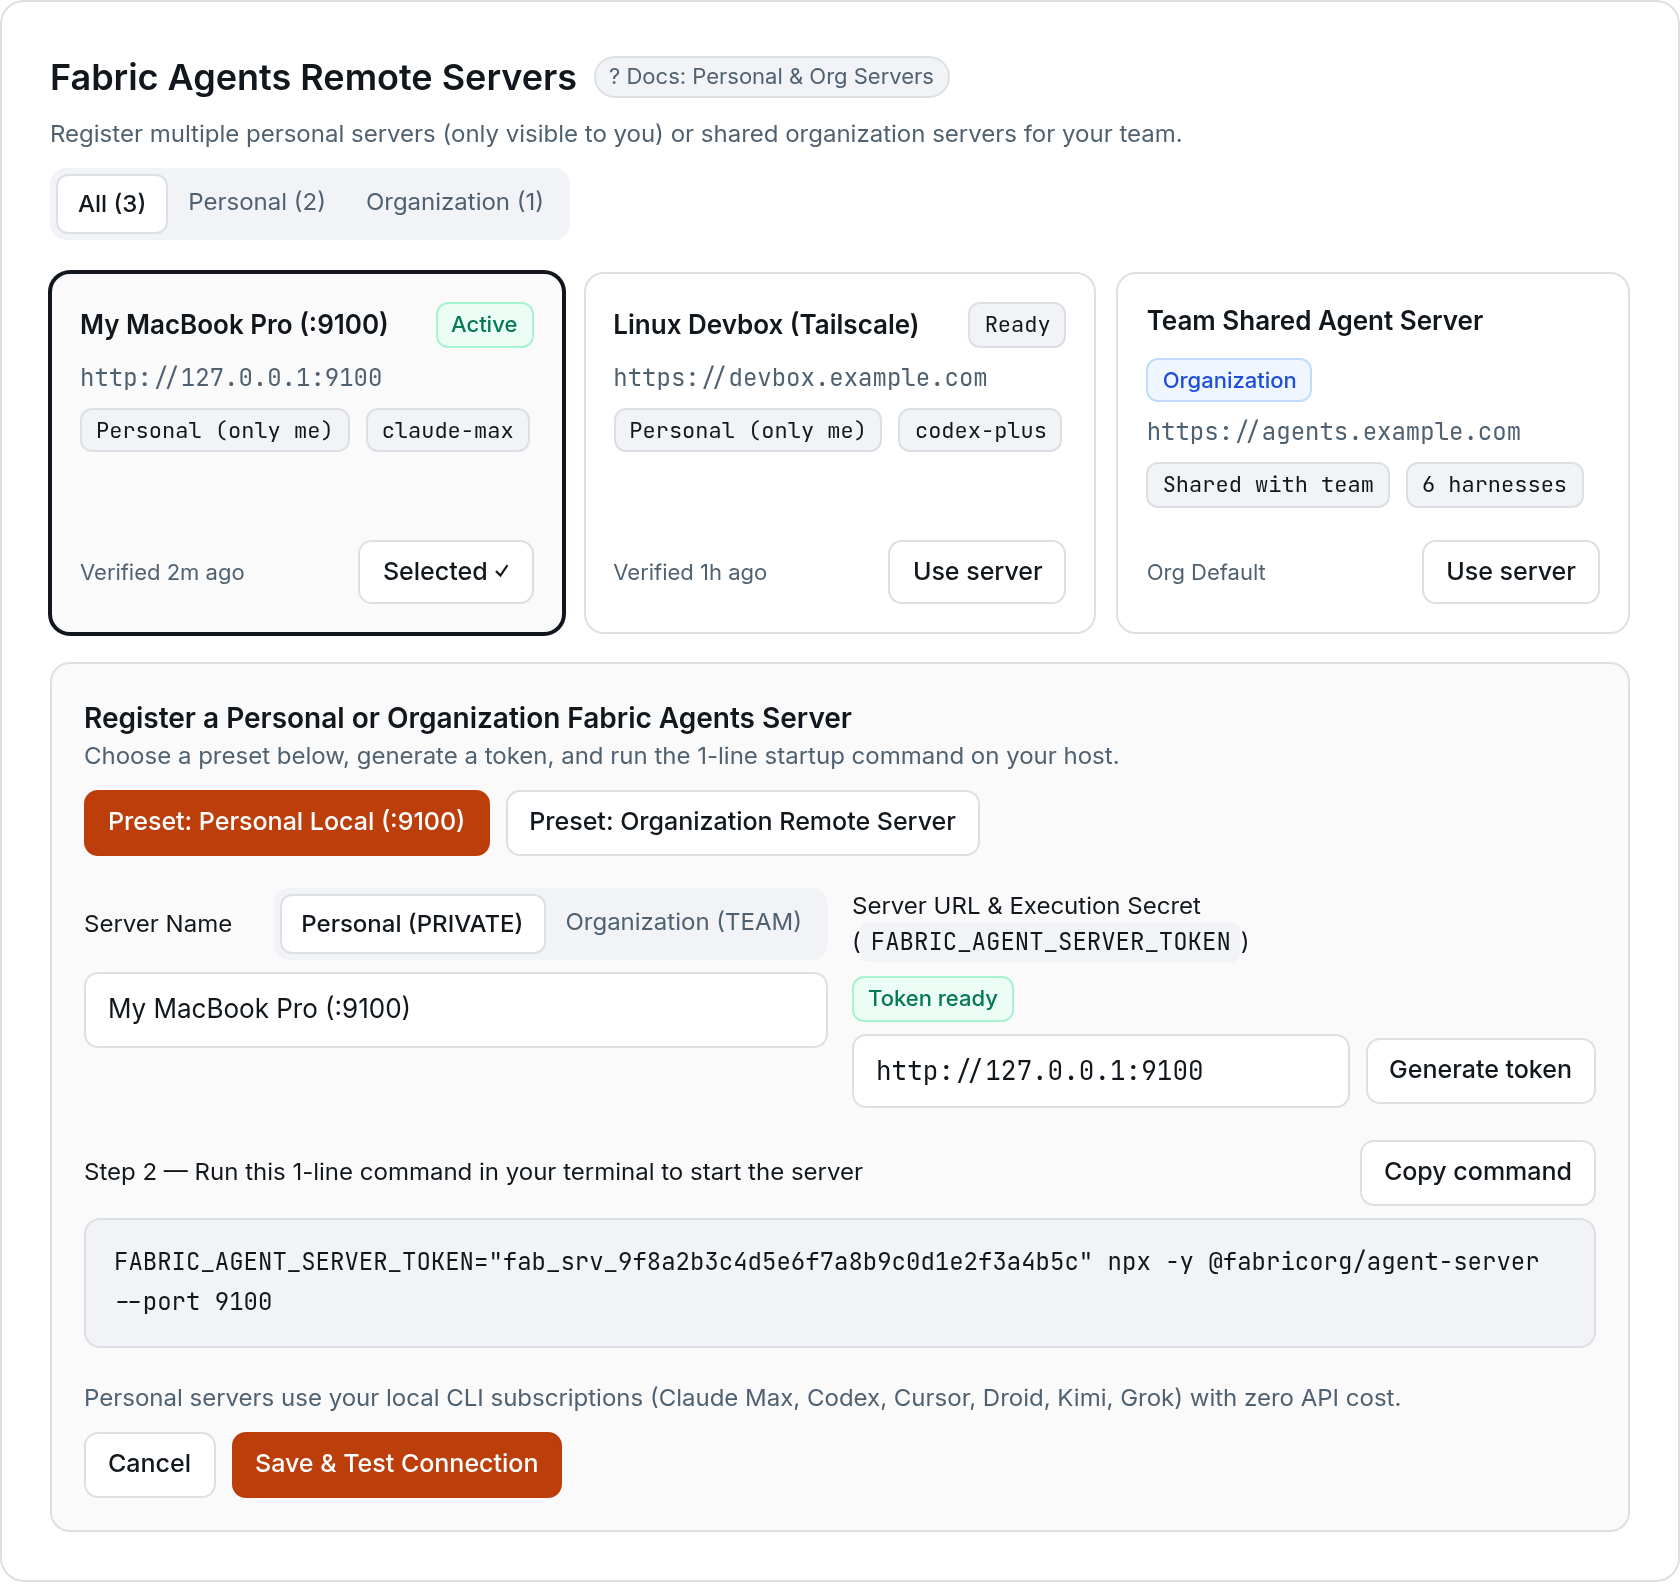
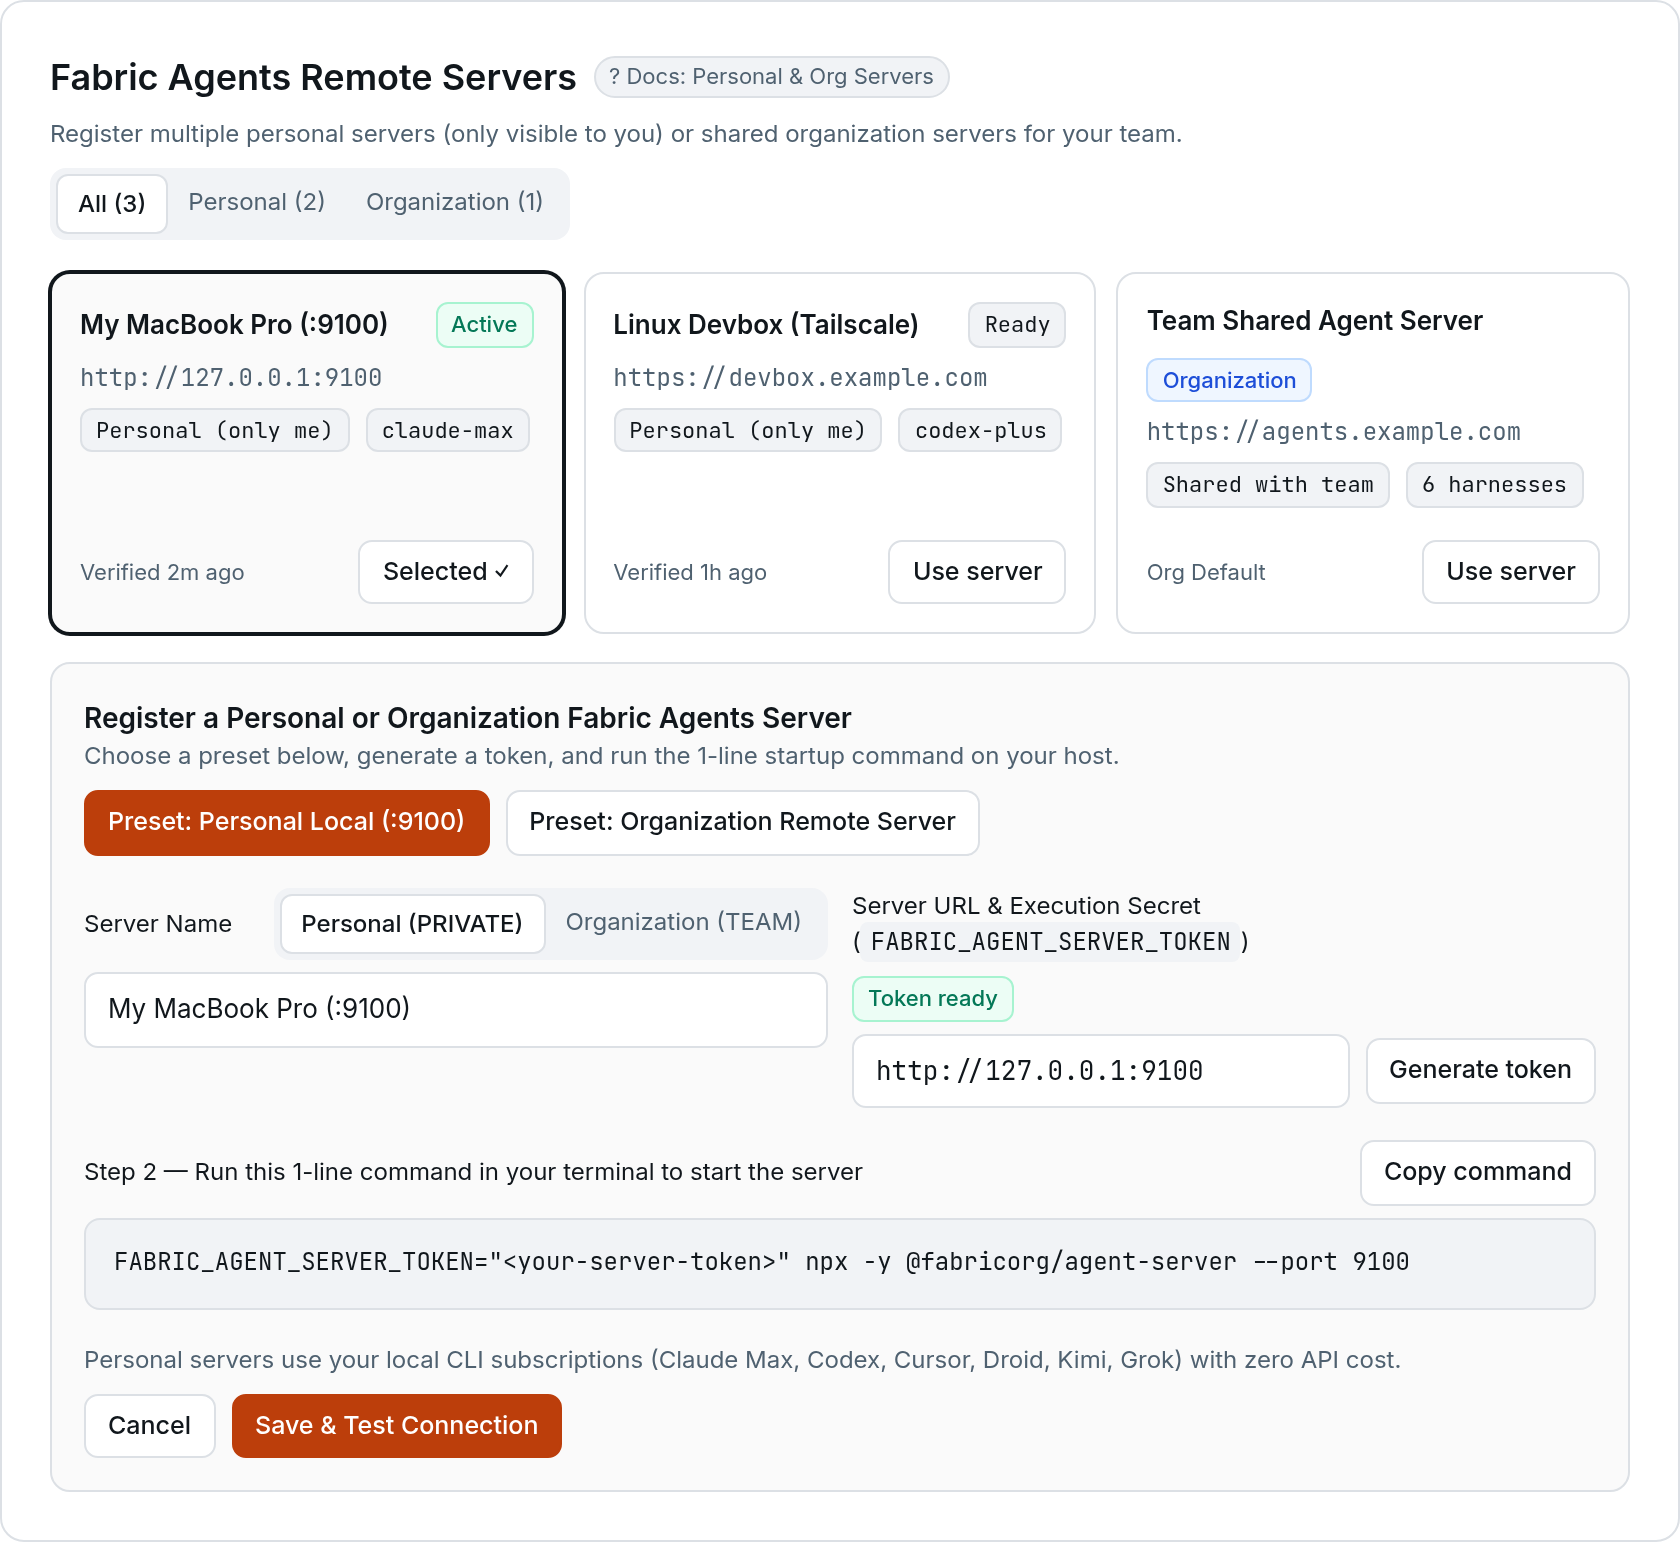
fix: resolve CI knip, gitleaks, docs drift, and provider label tests

diff --git a/apps/web/modules/saas/projects/components/coding-runs/CodingRunTimeline.tsx b/apps/web/modules/saas/projects/components/coding-runs/CodingRunTimeline.tsx
@@ -513,80 +513,94 @@ export function CodingRunTimeline({
 				liveStatus?.liveStatus?.providerStatus === "paused" ||
 				(isNativeSession && run.status === "COMPLETED")) &&
 				run.provider === "BACKGROUND_AGENTS" &&
-				!privateSession && (
-					<div className="rounded-lg border border-highlight/30 bg-highlight/5 p-4">
-						<div className="flex items-start gap-3">
-							<div className="flex size-9 shrink-0 items-center justify-center rounded-lg bg-highlight/10 text-highlight">
-								<MessagesSquareIcon className="size-4" />
-							</div>
-							<div className="min-w-0 flex-1 space-y-3">
-								<div>
-									<p className="text-[11px] font-medium uppercase tracking-wide text-muted-foreground">
-										{run.status === "COMPLETED"
-											? "Continue this session"
-											: "Send instruction to active session"}
-									</p>
-									<p className="mt-1 text-sm text-foreground/80">
-										Send a follow-up prompt or instruction
-										directly to this Fabric Agents session.
-										Native permission, sign-in, and
-										tool-input prompts can also be resolved
-										inside the embedded or browser Server
-										Web UI above.
-									</p>
+				!privateSession &&
+				(() => {
+					const isNativeCheckpoint =
+						isNativeSession &&
+						(run.status === "AWAITING_REVIEW" ||
+							liveStatus?.liveStatus?.providerStatus ===
+								"paused");
+					return (
+						<div className="rounded-lg border border-highlight/30 bg-highlight/5 p-4">
+							<div className="flex items-start gap-3">
+								<div className="flex size-9 shrink-0 items-center justify-center rounded-lg bg-highlight/10 text-highlight">
+									<MessagesSquareIcon className="size-4" />
 								</div>
-								<div className="flex gap-2">
-									<Textarea
-										placeholder="Reply to the agent…"
-										value={followUpMessage}
-										onChange={(e) =>
-											setFollowUpMessage(e.target.value)
-										}
-										rows={2}
-										className="resize-none text-sm"
-										onKeyDown={(e) => {
-											if (
-												e.key === "Enter" &&
-												(e.metaKey || e.ctrlKey) &&
-												followUpMessage.trim()
-											) {
-												e.preventDefault();
-												sendFollowUp.mutate(
-													followUpMessage.trim(),
-												);
-											}
-										}}
-									/>
-									<Button
-										type="button"
-										size="icon"
-										variant="outline"
-										className="mt-auto shrink-0"
-										disabled={
-											!followUpMessage.trim() ||
-											sendFollowUp.isPending
-										}
-										onClick={() =>
-											sendFollowUp.mutate(
-												followUpMessage.trim(),
-											)
-										}
-										aria-label="Send reply"
-									>
-										{sendFollowUp.isPending ? (
-											<Loader2Icon className="size-4 animate-spin" />
-										) : (
-											<MessageSquareIcon className="size-4" />
-										)}
-									</Button>
+								<div className="min-w-0 flex-1 space-y-3">
+									<div>
+										<p className="text-[11px] font-medium uppercase tracking-wide text-muted-foreground">
+											{isNativeCheckpoint
+												? "Agent awaiting input"
+												: run.status === "COMPLETED"
+													? "Continue this session"
+													: "Send instruction to active session"}
+										</p>
+										<p className="mt-1 text-sm text-foreground/80">
+											{isNativeCheckpoint
+												? "Native permission, sign-in, and tool-input requests must be resolved in the authenticated Fabric Agents client or embedded Server Web UI above. Sending a reply here does not approve them."
+												: "Send a follow-up prompt or instruction directly to this Fabric Agents session."}
+										</p>
+									</div>
+									{!isNativeCheckpoint && (
+										<>
+											<div className="flex gap-2">
+												<Textarea
+													placeholder="Reply to the agent…"
+													value={followUpMessage}
+													onChange={(e) =>
+														setFollowUpMessage(
+															e.target.value,
+														)
+													}
+													rows={2}
+													className="resize-none text-sm"
+													onKeyDown={(e) => {
+														if (
+															e.key === "Enter" &&
+															(e.metaKey ||
+																e.ctrlKey) &&
+															followUpMessage.trim()
+														) {
+															e.preventDefault();
+															sendFollowUp.mutate(
+																followUpMessage.trim(),
+															);
+														}
+													}}
+												/>
+												<Button
+													type="button"
+													size="icon"
+													variant="outline"
+													className="mt-auto shrink-0"
+													disabled={
+														!followUpMessage.trim() ||
+														sendFollowUp.isPending
+													}
+													onClick={() =>
+														sendFollowUp.mutate(
+															followUpMessage.trim(),
+														)
+													}
+													aria-label="Send reply"
+												>
+													{sendFollowUp.isPending ? (
+														<Loader2Icon className="size-4 animate-spin" />
+													) : (
+														<MessageSquareIcon className="size-4" />
+													)}
+												</Button>
+											</div>
+											<p className="text-[11px] text-muted-foreground">
+												⌘↵ to send
+											</p>
+										</>
+									)}
 								</div>
-								<p className="text-[11px] text-muted-foreground">
-									⌘↵ to send
-								</p>
 							</div>
 						</div>
-					</div>
-				)}
+					);
+				})()}
 
 			<div className="grid gap-3 sm:grid-cols-2">
 				{sessionUrl && (

diff --git a/apps/web/modules/saas/weave/components/__tests__/WeavePlanList.test.tsx b/apps/web/modules/saas/weave/components/__tests__/WeavePlanList.test.tsx
@@ -118,20 +118,22 @@ describe("WeavePlanList", () => {
 		mocks.useKanbanRuntimeDetected.mockReturnValue("detected");
 	});
 
-	it("shows Fabric Agents and local development delegation for feature-linked approved plans", async () => {
+	it("shows Fabric Agents and Fabric Agents Desktop delegation for feature-linked approved plans", async () => {
 		renderPlanList([approvedPlan()]);
 
 		expect(
 			await screen.findByRole("button", {
-				name: /Fabric Agents/i,
+				name: /^Fabric Agents$/i,
 			}),
 		).toBeEnabled();
 		expect(
 			screen.getByRole("button", {
-				name: /Local development/i,
+				name: /Fabric Agents Desktop/i,
 			}),
 		).toBeEnabled();
-		expect(screen.getByText(/through Fabric Kanban/i)).toBeInTheDocument();
+		expect(
+			screen.getByText(/through Fabric Agents Desktop/i),
+		).toBeInTheDocument();
 	});
 
 	it("disables Fabric Agents for standalone approved plans and explains why", async () => {
@@ -145,7 +147,7 @@ describe("WeavePlanList", () => {
 		]);
 
 		const backgroundButton = await screen.findByRole("button", {
-			name: /Fabric Agents/i,
+			name: /^Fabric Agents$/i,
 		});
 		expect(backgroundButton).toBeDisabled();
 		// The "why is this disabled" copy moved from a native `title` on the
@@ -164,7 +166,7 @@ describe("WeavePlanList", () => {
 		).toBeInTheDocument();
 		expect(
 			screen.getByRole("button", {
-				name: /Local development/i,
+				name: /Fabric Agents Desktop/i,
 			}),
 		).toBeEnabled();
 	});
@@ -219,7 +221,7 @@ describe("WeavePlanList", () => {
 			}),
 		]);
 
-		await screen.findByRole("button", { name: /Fabric Agents/i });
+		await screen.findByRole("button", { name: /^Fabric Agents$/i });
 		expect(
 			screen.queryByRole("button", { name: /Retry generation/i }),
 		).not.toBeInTheDocument();
@@ -255,21 +257,23 @@ describe("WeavePlanList", () => {
 		).not.toBeInTheDocument();
 	});
 
-	it("shows the local-development queue toast after a KANBAN_LOCAL start", async () => {
+	it("shows the Fabric Agents Desktop queue toast after a KANBAN_LOCAL start", async () => {
 		mocks.startExecution.mockResolvedValue({ executionId: "exec_1" });
 		const onSelectExecution = vi.fn();
 		renderPlanList([approvedPlan()], { onSelectExecution });
 
 		fireEvent.click(
-			await screen.findByRole("button", { name: /Local development/i }),
+			await screen.findByRole("button", {
+				name: /Fabric Agents Desktop/i,
+			}),
 		);
 
 		await waitFor(() =>
 			expect(mocks.toastSuccess).toHaveBeenCalledWith(
-				"Queued for Local development",
+				"Queued for Fabric Agents Desktop",
 				{
 					description:
-						"Run `fabric-kanban` in your repository to pull queued items.",
+						"Open Fabric Agents Desktop or your Personal Fabric Agents Remote Server to run queued items.",
 				},
 			),
 		);
@@ -281,7 +285,7 @@ describe("WeavePlanList", () => {
 		renderPlanList([approvedPlan()]);
 
 		fireEvent.click(
-			await screen.findByRole("button", { name: /Fabric Agents/i }),
+			await screen.findByRole("button", { name: /^Fabric Agents$/i }),
 		);
 
 		await waitFor(() =>
@@ -291,17 +295,17 @@ describe("WeavePlanList", () => {
 		);
 	});
 
-	it("shows the runtime-not-detected hint without disabling the Local development button", async () => {
+	it("shows the runtime-not-detected hint without disabling the Fabric Agents Desktop button", async () => {
 		mocks.useKanbanRuntimeDetected.mockReturnValue("not-detected");
 		renderPlanList([approvedPlan()]);
 
 		expect(
 			await screen.findByText(
-				/Local fabric-kanban runtime not detected — run `fabric-kanban` in your repository to pull queued work\./,
+				/Local Fabric Agents Desktop runtime not detected — open Fabric Agents Desktop or your Personal Fabric Agents Remote Server to run queued work\./,
 			),
 		).toBeInTheDocument();
 		expect(
-			screen.getByRole("button", { name: /Local development/i }),
+			screen.getByRole("button", { name: /Fabric Agents Desktop/i }),
 		).toBeEnabled();
 	});
 
@@ -310,11 +314,13 @@ describe("WeavePlanList", () => {
 
 		expect(
 			await screen.findByText(
-				/Run fabric-kanban locally to pull queued work\./,
+				/Launch Fabric Agents Desktop or your Personal Fabric Agents Remote Server to run queued work using your subscription tokens\./,
 			),
 		).toBeInTheDocument();
 		expect(
-			screen.queryByText(/Local fabric-kanban runtime not detected/),
+			screen.queryByText(
+				/Local Fabric Agents Desktop runtime not detected/,
+			),
 		).not.toBeInTheDocument();
 		expect(mocks.useKanbanRuntimeDetected).toHaveBeenCalledWith(true);
 	});

diff --git a/apps/web/modules/saas/weave/components/WeavePlanList.tsx b/apps/web/modules/saas/weave/components/WeavePlanList.tsx
@@ -530,7 +530,7 @@ export function WeavePlanList({
 					`Queued for ${getExecutionProviderLabel("KANBAN_LOCAL")}`,
 					{
 						description:
-							"Run `fabric-kanban` in your repository to pull queued items.",
+							"Open Fabric Agents Desktop or your Personal Fabric Agents Remote Server to run queued items.",
 					},
 				);
 			} else {
@@ -1147,7 +1147,7 @@ export function WeavePlanList({
 																	/>
 																	<span>
 																		{
-																			"Local fabric-kanban runtime not detected — run `fabric-kanban` in your repository to pull queued work."
+																			"Local Fabric Agents Desktop runtime not detected — open Fabric Agents Desktop or your Personal Fabric Agents Remote Server to run queued work."
 																		}
 																	</span>
 																</p>

diff --git a/packages/database/prisma/queries/ai-models.ts b/packages/database/prisma/queries/ai-models.ts
@@ -1054,16 +1054,18 @@ export async function getProviderModelMappingForCanonical(
 					isAvailable: true,
 					model: SELECTABLE_CATALOG_MODEL_FILTER,
 				},
+				...(provider === "CUSTOM" ? {} : { take: 1 }),
 			},
 		},
 	});
 	const mapping =
-		model?.providerMappings?.find((m) => m.provider === provider) ??
-		(provider === "CUSTOM"
-			? model?.providerMappings?.find(
+		provider === "CUSTOM"
+			? (model?.providerMappings?.find((m) => m.provider === "CUSTOM") ??
+				model?.providerMappings?.find(
 					(m) => m.provider === "OPENAI_DIRECT",
-				)
-			: undefined);
+				) ??
+				model?.providerMappings?.[0])
+			: model?.providerMappings?.[0];
 	return {
 		exists: model !== null,
 		providerModelId: mapping?.providerModelId ?? null,

diff --git a/apps/web/modules/saas/projects/lib/coding-run-visibility.ts b/apps/web/modules/saas/projects/lib/coding-run-visibility.ts
@@ -1,4 +1,4 @@
-export type CodingRunLifecycleStatus =
+type CodingRunLifecycleStatus =
 	| "QUEUED"
 	| "STARTING"
 	| "RUNNING"
@@ -10,14 +10,15 @@ export type CodingRunLifecycleStatus =
 	| "CANCELLED"
 	| "TERMINATED_STALE";
 
-export const ACTIVE_CODING_RUN_STATUSES: ReadonlySet<string> = new Set([
-	"QUEUED",
-	"STARTING",
-	"RUNNING",
-	"AWAITING_REVIEW",
-	"PR_OPENED",
-	"DEMO_READY",
-]);
+export const ACTIVE_CODING_RUN_STATUSES: ReadonlySet<string> =
+	new Set<CodingRunLifecycleStatus>([
+		"QUEUED",
+		"STARTING",
+		"RUNNING",
+		"AWAITING_REVIEW",
+		"PR_OPENED",
+		"DEMO_READY",
+	]);
 
 export function isCodingRunActive(
 	run: { status?: string | null } | null | undefined,

diff --git a/tooling/docs-screenshots/mocks/fabric-agents-delegation.html b/tooling/docs-screenshots/mocks/fabric-agents-delegation.html
@@ -168,7 +168,7 @@ pre{padding:12px 14px;border:1px solid var(--border);border-radius:8px;backgroun
         <label class="small">Step 2 — Run this 1-line command in your terminal to start the server</label>
         <button>Copy command</button>
       </div>
-      <pre class="tight">FABRIC_AGENT_SERVER_TOKEN="fab_srv_9f8a2b3c4d5e6f7a8b9c0d1e2f3a4b5c" npx -y @fabricorg/agent-server --port 9100</pre>
+      <pre class="tight">FABRIC_AGENT_SERVER_TOKEN="&lt;your-server-token&gt;" npx -y @fabricorg/agent-server --port 9100</pre>
     </div>
 
     <div class="row between space">

diff --git a/apps/web/modules/saas/projects/components/stories/__tests__/RunSpikeDialog.test.tsx b/apps/web/modules/saas/projects/components/stories/__tests__/RunSpikeDialog.test.tsx
@@ -138,7 +138,7 @@ describe("RunSpikeDialog", () => {
 			await screen.findByText("Runs on Fabric Agents"),
 		).toBeInTheDocument();
 		expect(
-			screen.getByText(/default provider is Local development/),
+			screen.getByText(/default provider is Fabric Agents Desktop/),
 		).toBeInTheDocument();
 	});
 
